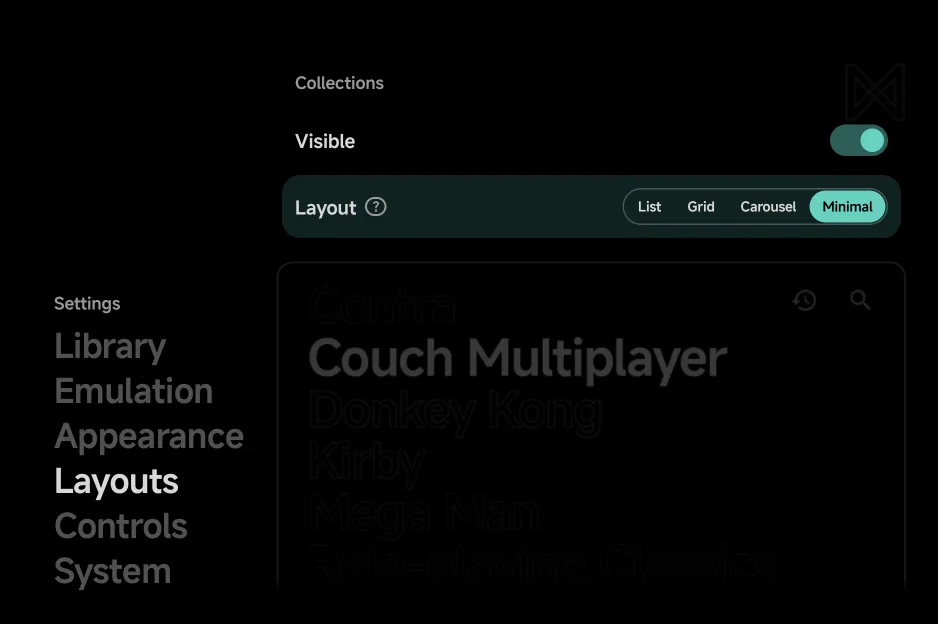
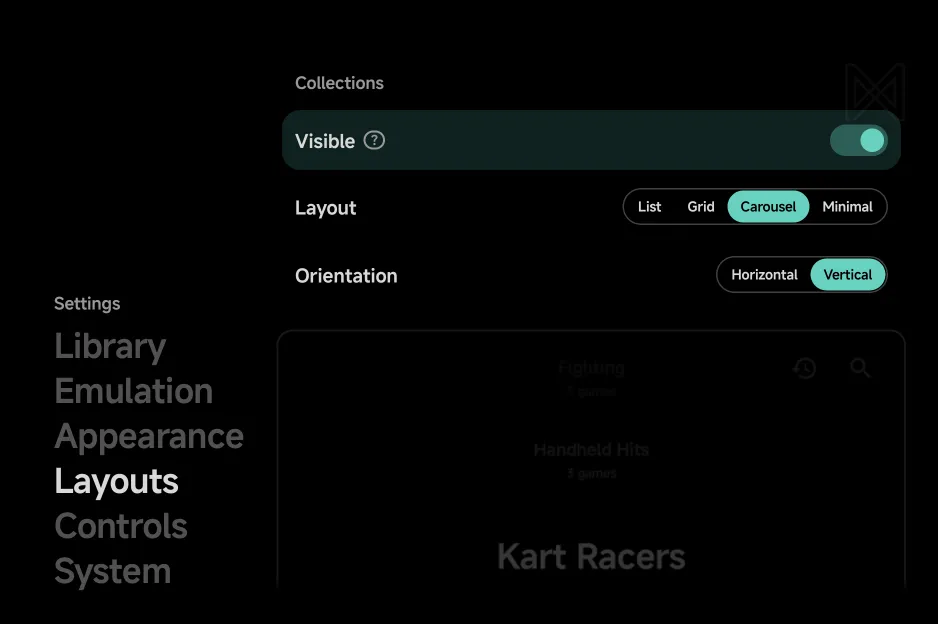
Mobile: the Layouts pages with the new pictures

diff --git a/docs/mobile/layouts.md b/docs/mobile/layouts.md
@@ -44,7 +44,7 @@ sideways). The picture changes as you change a row.
 
 ## Home
 
-![Layouts → Home beside the Settings sections: Visible, New shelf, Not started shelf and Stats on, and Layout Minimal selected, with the top of its picture below](../assets/screenshots/mobile/settings-layouts-home.webp){ .nx-wide }
+![Layouts → Home beside the Settings sections: Visible, New shelf, Not started shelf and Stats on, and Layout List, with the top of its picture below](../assets/screenshots/mobile/settings-layouts-home.webp){ .nx-wide }
 
 | Row | Values | Default | Shows |
 | --- | --- | --- | --- |
@@ -94,7 +94,7 @@ while **Layout** is **Grid**.
 
 ## Collections
 
-![Layouts → Collections beside the Settings sections: Visible on and Layout Minimal selected, with a picture of the Collections tab in Minimal below](../assets/screenshots/mobile/settings-layouts-collections.webp){ .nx-wide }
+![Layouts → Collections beside the Settings sections: Visible on, Layout Carousel and Orientation Vertical, with a picture of the vertical collections carousel below](../assets/screenshots/mobile/settings-layouts-collections.webp){ .nx-wide }
 
 | Row | Values | Default | Shows |
 | --- | --- | --- | --- |
@@ -104,7 +104,7 @@ while **Layout** is **Grid**.
 
 ## Tools
 
-![Layouts → Tools beside the Settings sections: Visible on and Layout Grid selected, with a picture of the Tools grid below](../assets/screenshots/mobile/settings-layouts-tools.webp){ .nx-wide }
+![Layouts → Tools beside the Settings sections: Visible on and Layout Minimal selected, with a picture of the Tools tab in Minimal below](../assets/screenshots/mobile/settings-layouts-tools.webp){ .nx-wide }
 
 | Row | Values | Default | Shows |
 | --- | --- | --- | --- |
@@ -114,7 +114,7 @@ while **Layout** is **Grid**.
 
 ## Game lists
 
-![Layouts → Game lists: Game lists layout Carousel, Game lists orientation Horizontal, Layout options and Achievements panel on, with a picture of a game list carousel](../assets/screenshots/mobile/settings-layouts-game-lists.webp){ .nx-wide }
+![Layouts → Game lists beside the Settings sections: Layout options and Achievements panel on, then Layout with Minimal selected on its own line, and the top of a Minimal game list picture below](../assets/screenshots/mobile/settings-layouts-game-lists.webp){ .nx-wide }
 
 | Row | Values | Default | Shows |
 | --- | --- | --- | --- |
@@ -177,7 +177,7 @@ the last two.
 
 ## Title and hints
 
-![Layouts → Title and hints: Page title, Button hints, Recent hint and Search hint on, with a picture of Home with its title and hints](../assets/screenshots/mobile/settings-layouts-title-hints.webp){ .nx-wide }
+![Layouts → Title and hints beside the Settings sections: Page title and Button hints both off, with a picture of a game list with no title and no hint bar below](../assets/screenshots/mobile/settings-layouts-title-hints.webp){ .nx-wide }
 
 | Row | Values | Default | Shows |
 | --- | --- | --- | --- |
@@ -230,7 +230,7 @@ right of a game list's title and at the top right of the main menu.
 
 ## Game Switcher
 
-![Layouts → Game Switcher: Game Switcher layout List, with a picture of the Game Switcher list](../assets/screenshots/mobile/settings-layouts-game-switcher.webp){ .nx-wide }
+![Layouts → Game Switcher beside the Settings sections: Layout Full screen, with a picture of the full-screen Game Switcher on Advance Wars below](../assets/screenshots/mobile/settings-layouts-game-switcher.webp){ .nx-wide }
 
 | Row | Values | Default |
 | --- | --- | --- |
